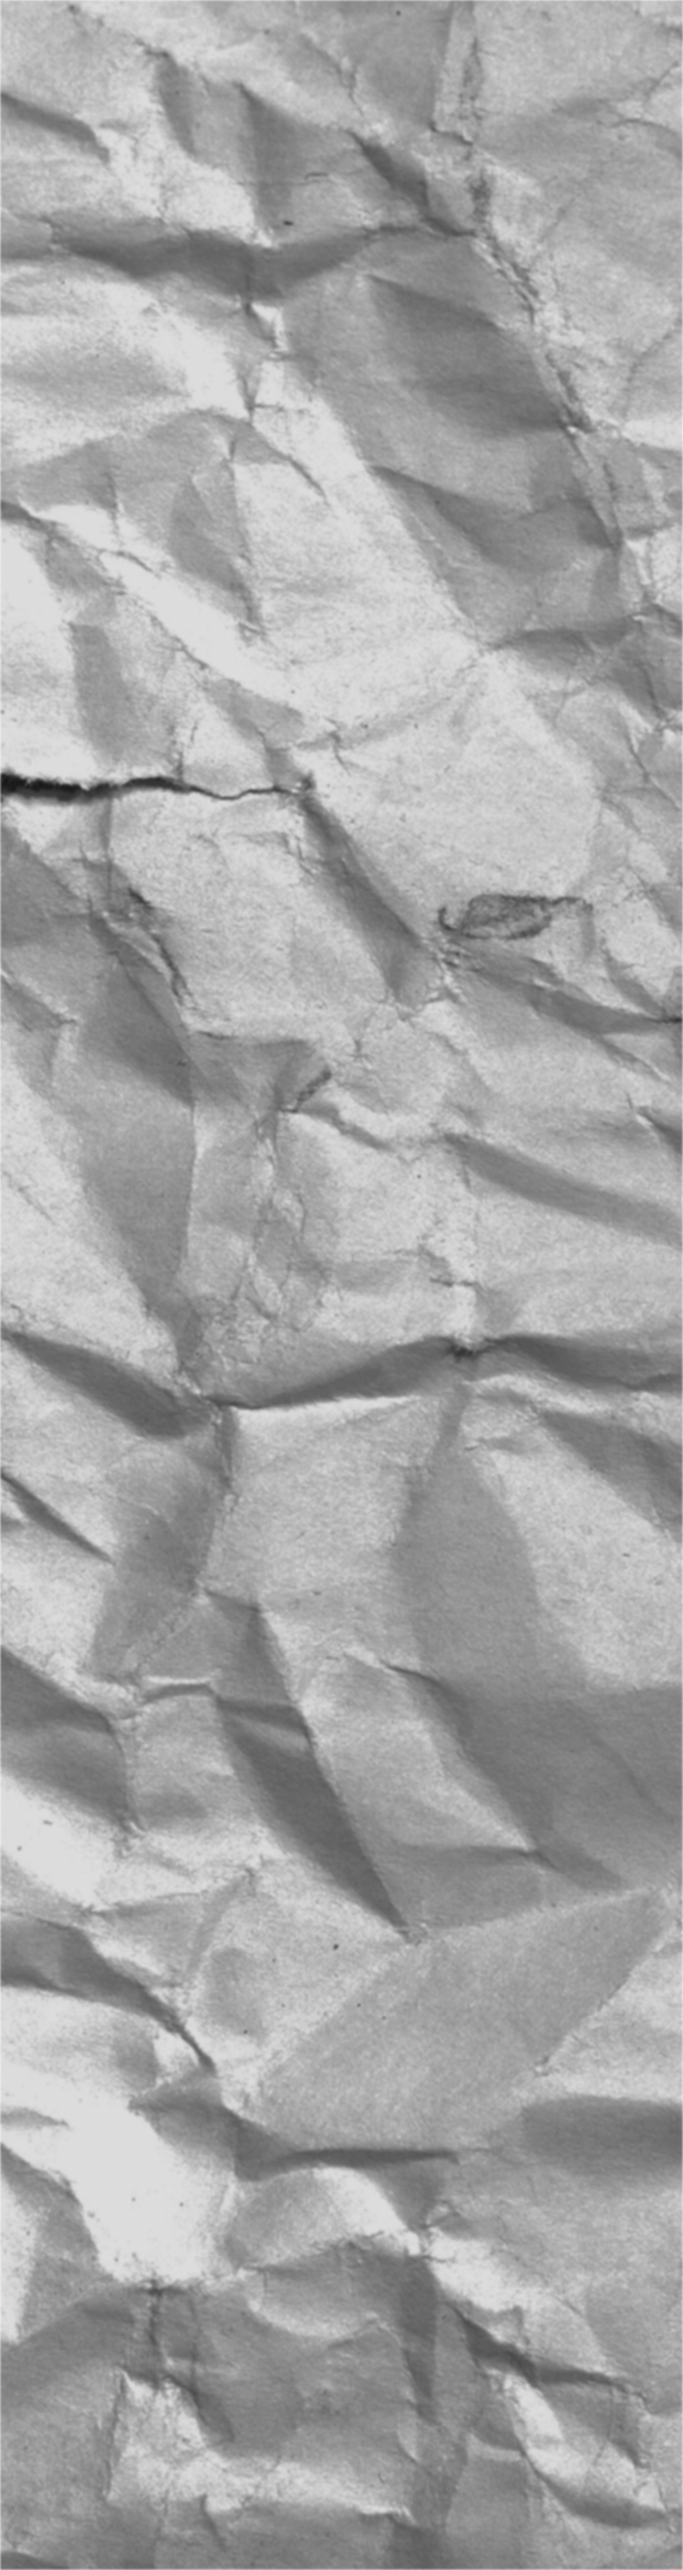
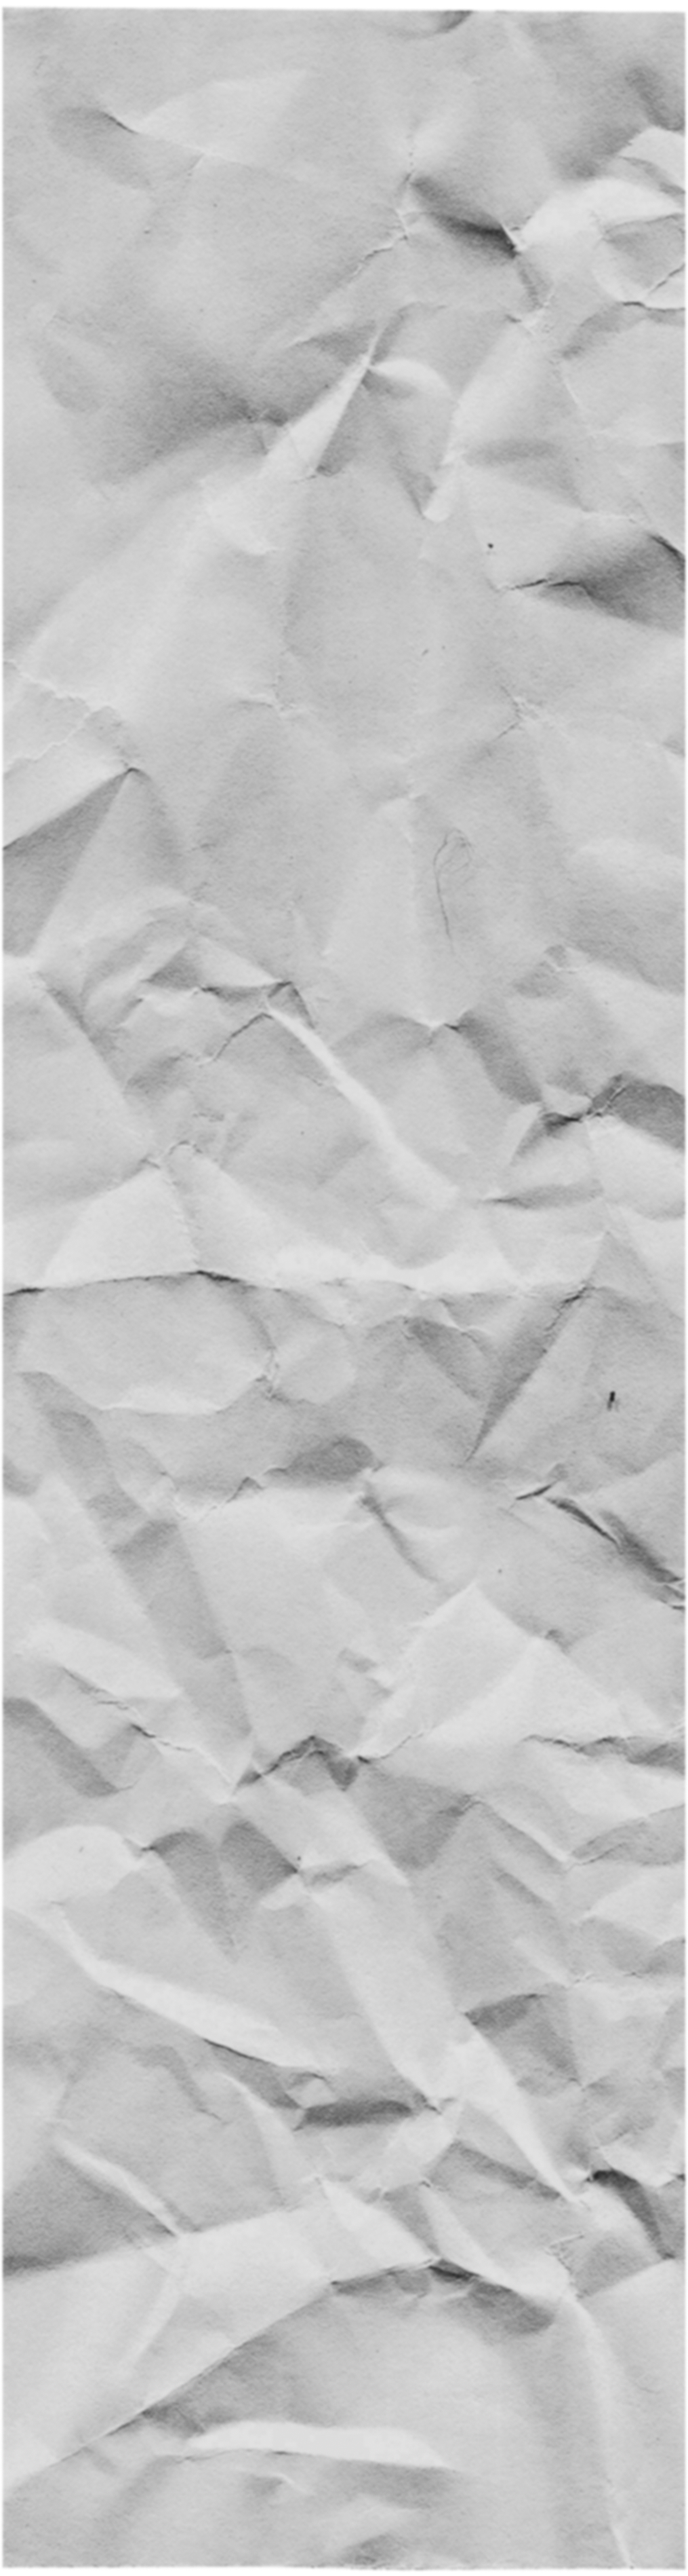
Design fixes #4

diff --git a/src/components/NonPage/Tex.css b/src/components/NonPage/Tex.css
@@ -1,16 +1,15 @@
 .image-overlay {
-    /* background-image: url("../../Images/Background.png"); */
+    background-image: url("../../Images/Background.png");
     background-repeat: repeat-y;
     background-size: cover;
     background-blend-mode: luminosity;
     mix-blend-mode: soft-light;
-    filter: blur(2px);
     pointer-events: none;
     height: 200vh;
     position: fixed;
-    top: 0;
-    left: 0;
-    width: 100%;
-    z-index: 1;
-    opacity: 25%;
+    top: -15px;
+    left: -20px;
+    width: 105%;
+    z-index: 100000;
+    opacity: 50%;
 }

diff --git a/src/components/Home.css b/src/components/Home.css
@@ -73,7 +73,7 @@
 
 .mission-box {
   padding-left: 5vw;
-  padding-right: 10vw;
+  padding-right: 20vw;
   padding-top: 100px;
   height: 90vh;
   width: 100vw;
